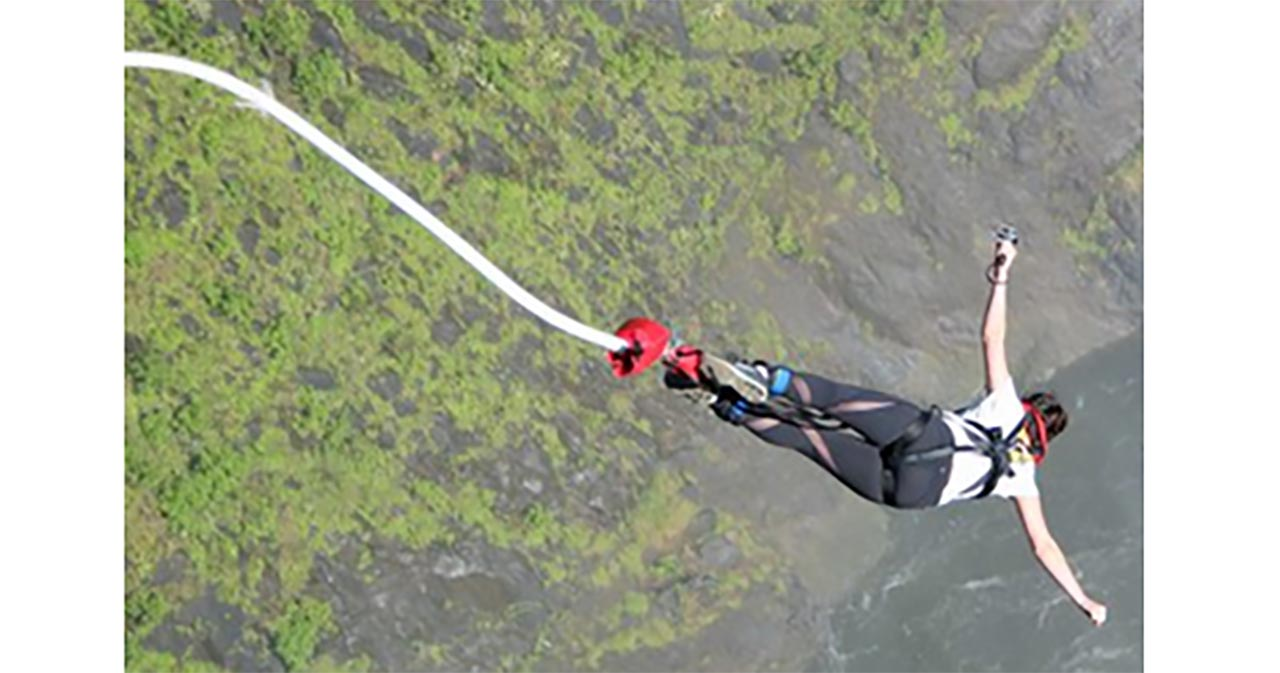
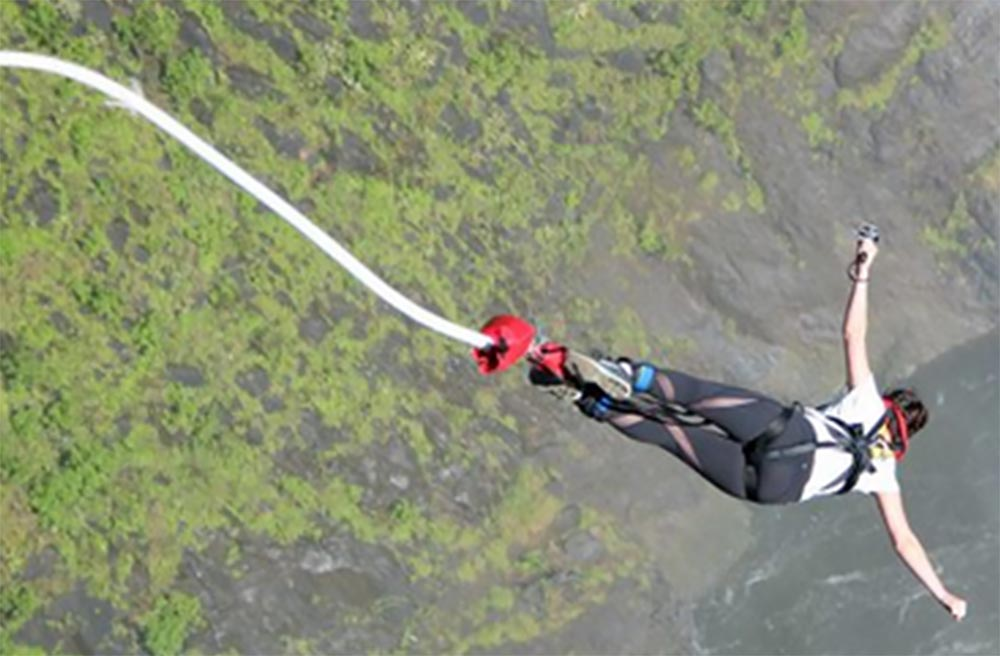
Clasa7 Cap2 Pictures Review And Resize Part3

diff --git a/docs/fizica/clasa6/fizica-clasa6-capitolul3.md b/docs/fizica/clasa6/fizica-clasa6-capitolul3.md
@@ -860,7 +860,7 @@ Observăm că în intervale de timp egale (de 4s), fata parcurge distanțe din c
 
 :::tip Experiment
 
-**1.** De ce moneda cade în pahar ?
+**1.** Inerția unei monede
 
 :::
 
@@ -912,7 +912,7 @@ Când tragi de carton, schimbi  starea de repaus în care se afla moneda. Moneda
 
 :::tip Experiment
 
-**2.** Ou crud sau ou fiert ?
+**2.** Inerția unui ou
 
 :::
 
@@ -954,7 +954,7 @@ Oul crud are inerția mai mare decât cel fiert, deoarece se opune mai mult la s
 
 :::tip Experiment
 
-**3.** Inerția și autobuzul.
+**3.** Inerția autobuzului
 
 :::
 
@@ -1303,7 +1303,7 @@ Prin cântărire ca balanţa sau cântarul obţinem masa corpului.
 
 :::tip Experiment
 
-**6.** Un raport constant.	
+**6.** Densitatea, o constantă de material	
 
 :::
 
@@ -1450,7 +1450,7 @@ Raportul dintre masa și volumul corpului reprezintă densitatea corpului.
 
 :::tip Experiment distractiv
 
-**7bis.** Stratificarea lichidelor
+**7bis.** Stratificarea lichidelor după densitate
 
 :::
 
@@ -1525,7 +1525,7 @@ Raportul dintre masa și volumul corpului reprezintă densitatea corpului.
 
 :::tip Experiment
 
-**8.** Interacțiuni de la distanță.
+**8.** Interacțiuni de la distanță
 
 :::
 
@@ -1630,7 +1630,7 @@ Efectele interacțiunii sunt de două feluri:
 
 :::tip Experiment
 
-**9.** Efectul dinamic al interacțiunii.
+**9.** Efectul dinamic al interacțiunii
 
 :::
 
@@ -2080,9 +2080,30 @@ Raportul dintre greutatea unui corp și masa lui se numește **accelerație grav
 #### Caracterizarea forței de greutate ca mărime fizică:
 
 #### •	Simbol: G
-#### •	Formulă de calcul: G = m∙g, unde m = masa corpului(în kg) și g = accelerația gravitațională a Pământului de 9,8 N/kg.
-#### •	Unitatea de măsură în Sistemul Internațional: [G]<sub>SI</sub> = N (Newton)
-#### •	Instrumente de măsură: dinamometru.
+#### •	Formulă de calcul: 
+
+<Img className="img-responsive4" src="fizica/clasa6/capitolul3/3_3_1_Poza2bis_FormulaGreutatii.jpg" />
+
+unde m = masa corpului(în kg) și 
+
+g = accelerația gravitațională a Pământului de 9,8 N/kg.
+
+
+<br></br>
+
+#### •	Unitatea de măsură în Sistemul Internațional: 
+
+
+<Img className="img-responsive4" src="fizica/clasa6/capitolul3/3_3_1_Poza2bis2_UnitateaDeMasuraAGreutatii.jpg" />
+
+<br></br>
+<br></br>
+
+
+#### •	Instrumente de măsură: 
+
+<Img className="img-responsive4" src="fizica/clasa6/capitolul3/2_4_1_Poza2bis3_InstrumentDeMasuraAGreutatii.jpg" />
+
 :::
 
 
@@ -2140,7 +2161,7 @@ m = ?
 
 :::tip Experiment
 
-**14.** Mișcarea bilei pe diferite suprafețe
+**14.** Forța de frecare și felul suprafeței
 
 :::
 
@@ -2255,13 +2276,13 @@ Un resort alungit sau comprimat este deformat elastic, cu o anumită forță, nu
 
 1)	Aerul are proprietăți elastice, fiind folosit la pneurile roților pentru amortizarea șocurilor sau la diferite obiecte pneumatice (saltele, mingii, baloane, etc.)
 
-<Img src="fizica/clasa6/capitolul3/3_3_3_3_Poza1_ImportantaForteiElastice_Pneuri.jpg" />
+<Img className="img-responsive4" src="fizica/clasa6/capitolul3/3_3_3_3_Poza1_ImportantaForteiElastice_Pneuri.jpg" />
 
 
 2)	Arcurile (resorturile)  sunt folosite pentru  pentru amortizarea șocurilor și vibrațiilor (suspensii de autovehicole , pentru acumulare de energie (arcuri de ceas, rulouri, arcuri de supape), exercitarea unei forţe elastice permanente (cuplaje de siguranţă , reglarea sau limitarea forţelor sau a debitelor (prese, cuplaje de siguranţă, robinete de reglare etc.).
 
 
-<Img src="fizica/clasa6/capitolul3/3_3_3_3_Poza2_ImportantaForteiElastice_Resorturi.jpg" />
+<Img className="img-responsive4" src="fizica/clasa6/capitolul3/3_3_3_3_Poza2_ImportantaForteiElastice_Resorturi.jpg" />
 
 
 #### Resorturile se găsesc în construcția multor obiecte :
@@ -2293,12 +2314,12 @@ Un resort alungit sau comprimat este deformat elastic, cu o anumită forță, nu
 
 3)	Arc cu săgeți sau arbaletă pentru vânătoare.
 
-<Img src="fizica/clasa6/capitolul3/3_3_3_3_Poza3_ImportantaForteiElastice_ArcCuSageti.jpg" />
+<Img className="img-responsive4" src="fizica/clasa6/capitolul3/3_3_3_3_Poza3_ImportantaForteiElastice_ArcCuSageti.jpg" />
 
 
 4)	Coardă elastică în bungee jumping
 
-<Img src="fizica/clasa6/capitolul3/3_3_3_3_Poza4_ImportantaForteiElastice_BungeeJumping.jpg" />
+<Img className="img-responsive4" src="fizica/clasa6/capitolul3/3_3_3_3_Poza4_ImportantaForteiElastice_BungeeJumping.jpg" />
 
 
 :::
@@ -2386,7 +2407,7 @@ Legea deformării elastice ne arată că forța deformatoare (F) este egală în
 
 :::caution Problemă model
 
-11) Un resort are lungimea inițială de 6cm și când este deformat are 10 cm. Știind  că resortul are 40 N /m, determină:
+11) Un resort are lungimea inițială de 6cm și când este deformat are 10 cm. Știind că resortul are 40 N /m, determină:
 
 a)	Forța deformatoare.
 
@@ -2406,7 +2427,7 @@ d)	Reprezintă cele două forțe ce acționează asupra resortului .
 
 
 
-a) Scriem legea deformării elastice : |F| = |F<sub>e</sub> | = k ∙ ΔL
+a) Scriem legea deformării elastice: |F| = |F<sub>e</sub>| = k ∙ ΔL
 
 
 <Img src="fizica/clasa6/capitolul3/3_3_3_3_Poza7_RezolvarePunctulAProblemaModel11.jpg" />
@@ -2433,6 +2454,14 @@ Forța elastică (F<sub>e</sub>) o desenăm un segment cu săgeată orientat în
 
 <br></br>
 <br></br>
+<br></br>
+
+
+
+#### REȚINE
+
+
+
 
 
 

diff --git a/docs/doc2.md b/docs/doc2.md
@@ -4,3 +4,34 @@ title: Document Number 2
 ---
 
 This is a link to [another document.](doc3.md) This is a link to an [external page.](http://www.example.com/)
+
+
+
+
+#### REȚINE
+
+
+
+**Forța de greutate (pe scurt greutate, forță gravitațională, gravitație)** este forța cu care Pământul atrage un corp.
+
+
+
+#### Caracterizarea forței de greutate ca mărime fizică:
+
+#### •	Simbol: G
+#### •	Formulă de calcul: 
+
+<Img className="img-responsive4" src="fizica/clasa7/capitolul2/2_4_1_Poza2bis_FormulaGreutatii.jpg" />
+
+unde m = masa corpului(în kg) și 
+
+g = accelerația gravitațională a Pământului de 9,8 N/kg.
+
+
+<br></br>
+
+#### •	Unitatea de măsură în Sistemul Internațional: 
+
+
+<Img className="img-responsive4" src="fizica/clasa7/capitolul2/2_4_1_Poza2bis2_UnitateaDeMasuraAGreutatii.jpg" />
+
